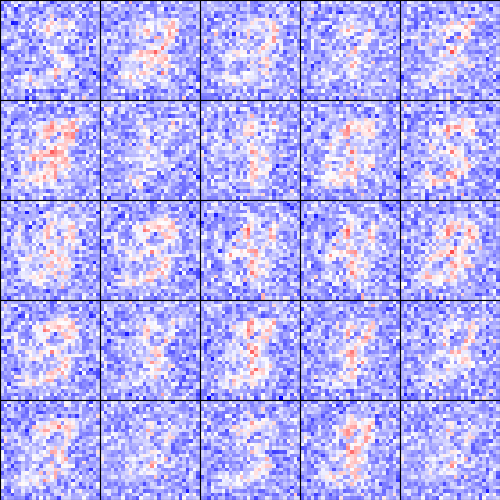
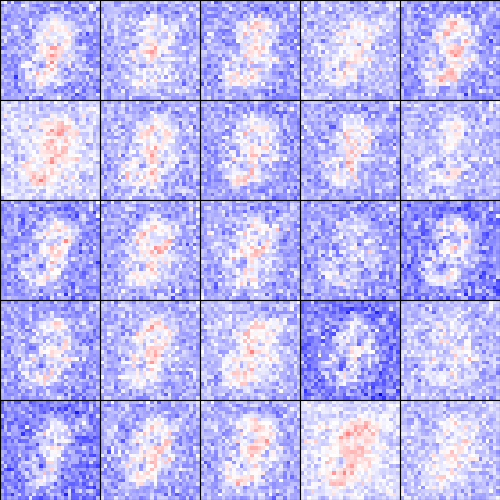
Minor fixes to cd1. (Still not done!)

diff --git a/A4/rbm.py b/A4/rbm.py
@@ -58,10 +58,10 @@ class RestrictedBoltzmannMachine():
 
         self.momentum = 0.7
 
-        self.print_period = 5000
+        self.print_period = 2000
 
         self.rf = {  # receptive-fields. Only applicable when visible layer is input data
-            "period": 5000,  # iteration period to visualize
+            "period": 2000,  # iteration period to visualize
             "grid": [5, 5],  # size of the grid
             "ids": np.random.randint(0, self.ndim_hidden, 25)  # pick some random hidden units
         }
@@ -99,9 +99,8 @@ class RestrictedBoltzmannMachine():
             # pos_phase = np.sum(h_probs) * np.matmul(v0.T, h0)
 
             # negative phase
-            hk = np.copy(h0)
-            v_probs, v1 = self.get_v_given_h(hk)
-            h1 = h_probs
+            v_probs, v1 = self.get_v_given_h(h0)
+            h1_probs, h1 = self.get_h_given_v(v1)
             # updating parameters
             self.update_params(v0, h0, v1, h1)
             # visualize once in a while when visible layer is input images
@@ -113,7 +112,7 @@ class RestrictedBoltzmannMachine():
             # print progress
 
             if it % self.print_period == 0:
-                print("iteration=%7d recon_loss=%4.4f" % (it, np.linalg.norm(visible_trainset - visible_trainset)))
+                print("iteration=%7d recon_loss=%4.4f" % (it, np.linalg.norm(visible_trainset[start:end][:] - v1)))
 
         return
 
@@ -140,7 +139,7 @@ class RestrictedBoltzmannMachine():
 
         return
 
-    def get_h_given_v(self, visible_minibatch):
+    def get_h_given_v(self, visible_minibatch, sample = False):
 
         """Compute probabilities p(h|v) and activations h ~ p(h|v) 
 

diff --git a/A4/run.py b/A4/run.py
@@ -12,12 +12,12 @@ if __name__ == "__main__":
     print ("\nStarting a Restricted Boltzmann Machine..")
 
     rbm = RestrictedBoltzmannMachine(ndim_visible=image_size[0]*image_size[1],
-                                     ndim_hidden=200,
+                                     ndim_hidden=500,
                                      is_bottom=True,
                                      image_size=image_size,
                                      is_top=False,
                                      n_labels=10,
-                                     batch_size=10
+                                     batch_size=20
     )
     
     rbm.cd1(visible_trainset=train_imgs, n_iterations=10000)
